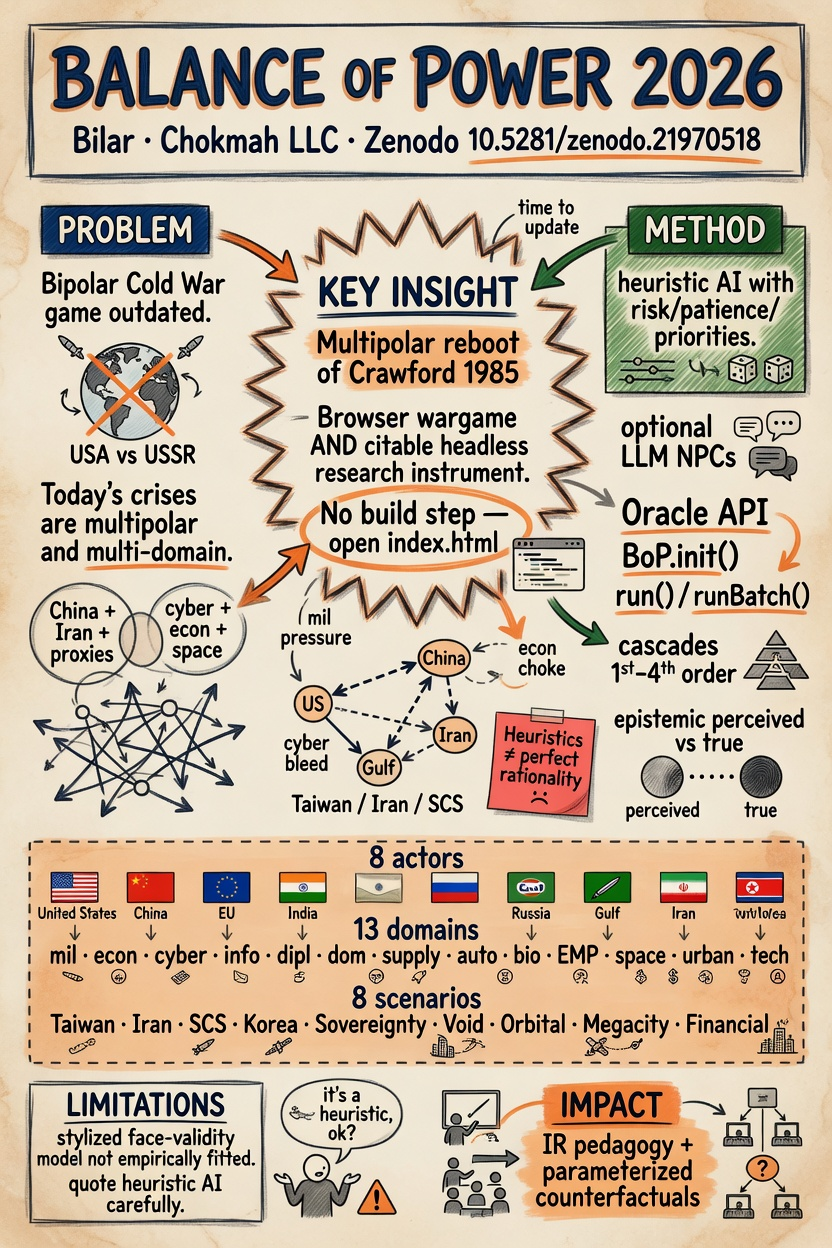
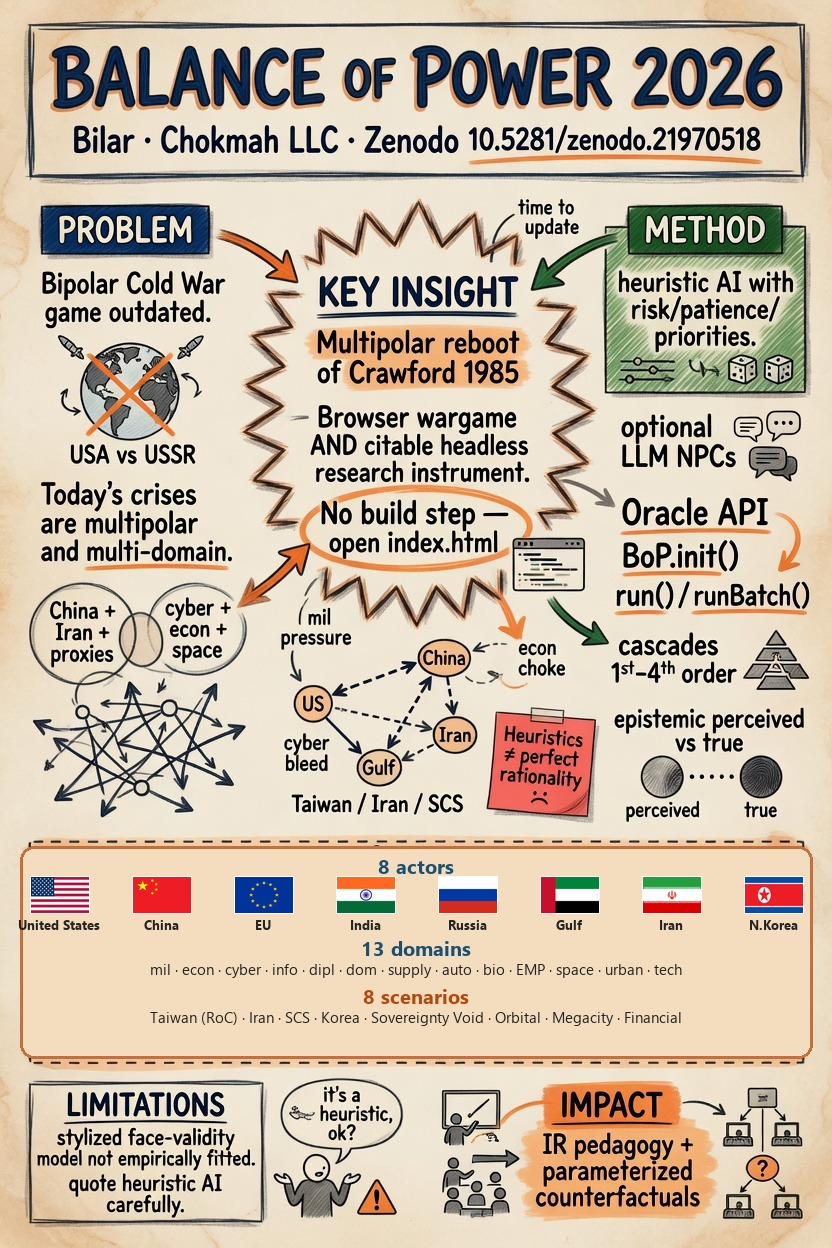
Fix BoP sketchnote flags and Taiwan label.
Russia sits under the Russian flag, Gulf uses the UAE flag, and the scenario line reads Taiwan (RoC). Cache-bust ?v=7.

Changed region(s): [[0.0, 0.6562, 1.0, 0.875]]

diff --git a/research/balance-of-power-2026-21970518/index.html b/research/balance-of-power-2026-21970518/index.html
@@ -10,9 +10,9 @@
     <meta property="og:url" content="https://chokmah.me/research/balance-of-power-2026-21970518/">
     <meta property="og:title" content="Balance of Power 2026 (v2.13.2)">
     <meta property="og:description" content="A turn-based multipolar crisis simulation for IR research and war studies pedagogy. Eight scenarios across thirteen domains and eight actors; browser wargame and headless Oracle API for batch runs and counterfactuals. Stylized, rule-based AI with cascade dynamics.">
-    <meta property="og:image" content="https://chokmah.me/assets/sketchnote-zenodo-21970518.png?v=6">
+    <meta property="og:image" content="https://chokmah.me/assets/sketchnote-zenodo-21970518.png?v=7">
     <meta name="twitter:card" content="summary_large_image">
-    <meta name="twitter:image" content="https://chokmah.me/assets/sketchnote-zenodo-21970518.png?v=6">
+    <meta name="twitter:image" content="https://chokmah.me/assets/sketchnote-zenodo-21970518.png?v=7">
     <meta name="citation_title" content="Balance of Power 2026">
     <meta name="citation_author" content="Bilar, Daniyel Yaacov">
     <meta name="citation_publication_date" content="2026-08-16">
@@ -48,7 +48,7 @@
     "https://doi.org/10.5281/zenodo.20370929",
     "https://github.com/chokmah-me/BoP2026"
   ],
-  "image": "https://chokmah.me/assets/sketchnote-zenodo-21970518.png?v=6",
+  "image": "https://chokmah.me/assets/sketchnote-zenodo-21970518.png?v=7",
   "author": [
     {
       "@type": "Person",
@@ -152,11 +152,11 @@
       <strong>Source:</strong> <a href="https://github.com/chokmah-me/BoP2026">github.com/chokmah-me/BoP2026</a>
     </div>
     <div class="poster">
-      <a href="https://chokmah.me/assets/sketchnote-zenodo-21970518.png?v=6">
-        <img src="https://chokmah.me/assets/sketchnote-zenodo-21970518.png?v=6" width="563" height="845"
+      <a href="https://chokmah.me/assets/sketchnote-zenodo-21970518.png?v=7">
+        <img src="https://chokmah.me/assets/sketchnote-zenodo-21970518.png?v=7" width="563" height="845"
              alt="Sketchnote for Balance of Power 2026: multipolar reboot of Crawford 1985; browser wargame and headless research instrument; eight actors, thirteen domains, eight scenarios">
       </a>
-      <p class="cap">Sketchnote for v2.13.2 (CC BY 4.0). <a href="https://chokmah.me/assets/sketchnote-zenodo-21970518.png?v=6">Full-size PNG</a>.</p>
+      <p class="cap">Sketchnote for v2.13.2 (CC BY 4.0). <a href="https://chokmah.me/assets/sketchnote-zenodo-21970518.png?v=7">Full-size PNG</a>.</p>
     </div>
     <h2>Abstract</h2>
     <p>A turn-based multipolar crisis simulation for IR research and war studies pedagogy. Eight scenarios across thirteen domains and eight actors; browser wargame and headless Oracle API for batch runs and counterfactuals. Stylized, rule-based AI with cascade dynamics.</p>
